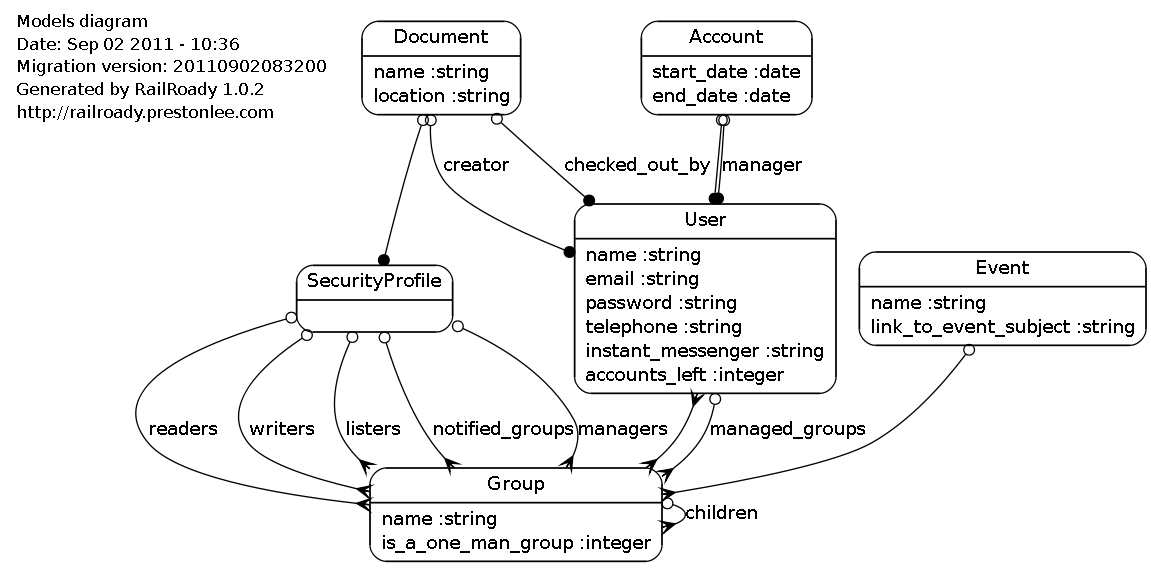
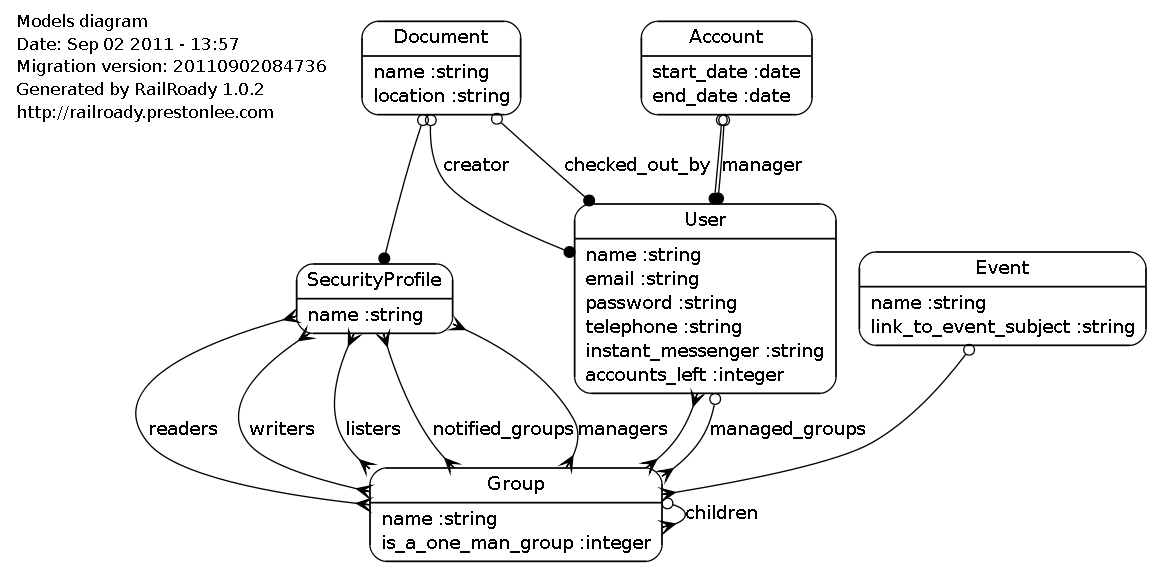
many-to-many kell security profile ba

Changed region(s): [[0.2433, 0.4489, 0.4257, 0.5986], [0.2433, 0.0898, 0.2737, 0.1197], [0.1825, 0.0599, 0.2129, 0.0898]]

diff --git a/app/models/security_profile.rb b/app/models/security_profile.rb
@@ -9,9 +9,9 @@
 #
 
 class SecurityProfile < ActiveRecord::Base
-   has_many :readers, :class_name=>"Group"
-   has_many :writers, :class_name=>"Group"
-   has_many :listers, :class_name=>"Group"
-   has_many :notified_groups, :class_name=>"Group"
-   has_many :managers, :class_name=>"Group"
+   has_and_belongs_to_many :readers, :class_name=>"Group"
+   has_and_belongs_to_many :writers, :class_name=>"Group"
+   has_and_belongs_to_many :listers, :class_name=>"Group"
+   has_and_belongs_to_many :notified_groups, :class_name=>"Group"
+   has_and_belongs_to_many :managers, :class_name=>"Group"
 end
